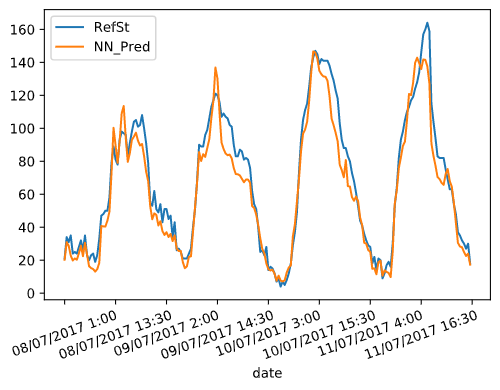
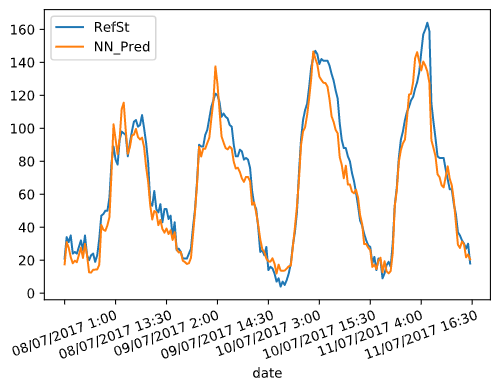
NN updated

diff --git a/main.py b/main.py
@@ -32,6 +32,19 @@ df_train = pd.DataFrame({'RefSt': Y_train, 'Sensor_O3': X_train["Sensor_O3"], 'T
 df_test = pd.DataFrame({'RefSt': Y_test, 'Sensor_O3': X_test["Sensor_O3"], 'Temp': X_test["Temp"], 'RelHum': X_test["RelHum"]})
 
 
+# %%
+# Normalise sensor data
+def normalize(col):
+    μ = col.mean()
+    σ = col.std()
+    return (col - μ)/σ
+
+df["normRefSt"] = normalize(df["RefSt"])
+df["normSensor_O3"] = normalize(df["Sensor_O3"])
+df["normTemp"] = normalize(df["Temp"])
+df["normRelHum"] = normalize(df["RelHum"])
+
+
 #%%
 # Loss functions definition
 from sklearn.metrics import r2_score, mean_squared_error, mean_absolute_error
@@ -83,19 +96,6 @@ plt.xticks(rotation=20)
 # Raw scatter plot
 sns.lmplot(x = 'Sensor_O3', y = 'RefSt', data = df, fit_reg=True, line_kws={'color': 'orange'}) 
 
-# %%
-# Normalise sensor data
-def normalize(col):
-    μ = col.mean()
-    σ = col.std()
-    return (col - μ)/σ
-
-df["normRefSt"] = normalize(df["RefSt"])
-df["normSensor_O3"] = normalize(df["Sensor_O3"])
-df["normTemp"] = normalize(df["Temp"])
-df["normRelHum"] = normalize(df["RelHum"])
-
-print(df)
 
 # %%
 # Normalised scatter plot
@@ -148,7 +148,12 @@ loss_functions(y_true=df_test["RefSt"], y_pred=df_test["MLR_Pred"])
 
 
 # %%
-# Multiple Linear Regression with Gradient Descent Method
+# Multiple Linear Regression with Batch Gradient Descent
+
+
+
+# %%
+# Multiple Linear Regression with Stochastic Gradient Descent
 from sklearn.linear_model import SGDRegressor
 from sklearn.preprocessing import StandardScaler
 
@@ -394,7 +399,6 @@ sns.lmplot(x = 'RefSt', y = 'NN_Pred', data = df_test, fit_reg=True, line_kws={'
 
 # NN loss
 loss_functions(y_true=df_test["RefSt"], y_pred=df_test["NN_Pred"])
-
 
 
 # %%

diff --git a/README.md b/README.md
@@ -248,9 +248,9 @@ Obtained results:
 ![KNN_Pred_scatter](img/NN_Pred_scatter.png)
 
 The obtained loss functions for Neural Network with the hyperparameters specified above are:
-* R-squared = 0.9346110758494881
-* RMSE = 111.48131359378803
-* MAE = 8.238458507061004
+* R-squared = 0.9402881574652502
+* RMSE = 101.80247999732873
+* MAE = 8.050368747711182
 
 ## Source code
 
